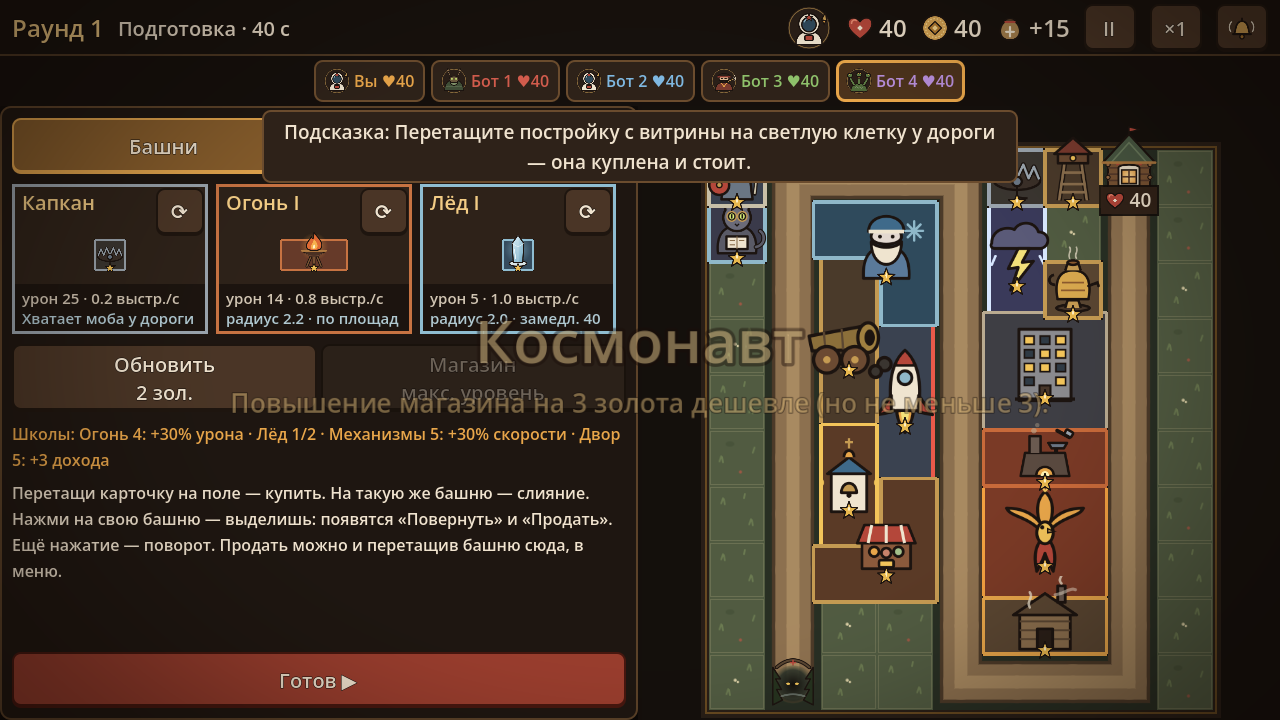
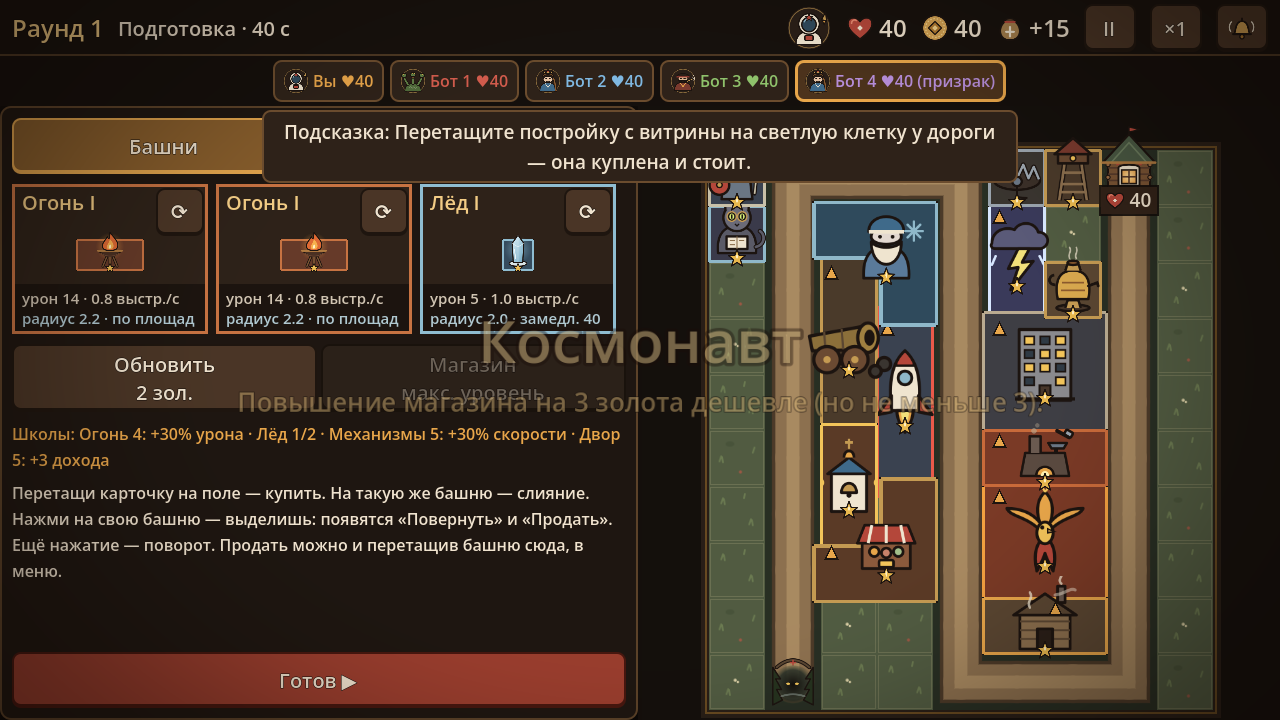
Значок усиленной постройки на поле

diff --git a/docs/presentation/index.html b/docs/presentation/index.html
@@ -342,7 +342,7 @@ figcaption { color:var(--muted); font-size:17px; margin-top:6px; }
 <circle cx="110" cy="38" r="8" fill="#6a7684" stroke="#1c1410" stroke-width="3.5"/>
 </svg>
 <h3>Разбойник</h3><p>HP 60</p><p>Быстрый; прорвался — хозяину армии +3 золота. Только от навыка Соловья.</p></div></div></section>
-<section><h2>Игра на экране</h2><figure><img src="shot_tiers.png" alt=""><figcaption>Магазин 4-го уровня: постройки тиров 3–4 рядом с новыми, строка «Школы», подсказка новичку</figcaption></figure><figure><img src="shot_buildings.png" alt=""><figcaption>Подготовка: самовар, кузница, капкан, панелька рядом с самострелами и жаровнями; тост — навык бота-соперника</figcaption></figure><figure><img src="shot_gift.png" alt=""><figcaption>«Тройка!»: выбор подарка, подарок в золотой рамке (перетащить на поле бесплатно), подсказка новичку сверху</figcaption></figure><figure><img src="shot_wave.png" alt=""><figcaption>Волна: слева бой на поле призрака (колобки, нетопыри, витязи), справа — «Палица» Ильи Муромца</figcaption></figure><figure><img src="shot_portrait_prep.png" alt=""><figcaption>Вертикальный экран: портрет героя и кнопка навыка вверху</figcaption></figure></section>
+<section><h2>Игра на экране</h2><figure><img src="shot_tiers.png" alt=""><figcaption>Магазин 4-го уровня: постройки тиров 3–4; золотой уголок «▲» — постройку усиливают соседи или школа; строка «Школы»; подсказка новичку</figcaption></figure><figure><img src="shot_buildings.png" alt=""><figcaption>Подготовка: самовар, кузница, капкан, панелька рядом с самострелами и жаровнями; тост — навык бота-соперника</figcaption></figure><figure><img src="shot_gift.png" alt=""><figcaption>«Тройка!»: выбор подарка, подарок в золотой рамке (перетащить на поле бесплатно), подсказка новичку сверху</figcaption></figure><figure><img src="shot_wave.png" alt=""><figcaption>Волна: слева бой на поле призрака (колобки, нетопыри, витязи), справа — «Палица» Ильи Муромца</figcaption></figure><figure><img src="shot_portrait_prep.png" alt=""><figcaption>Вертикальный экран: портрет героя и кнопка навыка вверху</figcaption></figure></section>
 <section><h2>Баланс: доля побед героев</h2><p class="lead">200 матчей ботов на 5 игроков, герой у бота — случайный из трёх (11 героев). Цель — каждый 10–30% (честная доля — 20%). Длина матча: медиана 15 раундов (цель 12–16).</p><div class="bar"><span>Баба-Яга</span><i style="width:93%"></i><b>31%</b></div><div class="bar"><span>Леший</span><i style="width:81%"></i><b>27%</b></div><div class="bar"><span>Домовой</span><i style="width:66%"></i><b>22%</b></div><div class="bar"><span>Скоморох</span><i style="width:63%"></i><b>21%</b></div><div class="bar"><span>Соловей-Разбойник</span><i style="width:57%"></i><b>19%</b></div><div class="bar"><span>Илья Муромец</span><i style="width:54%"></i><b>18%</b></div><div class="bar"><span>Кощей Бессмертный</span><i style="width:54%"></i><b>18%</b></div><div class="bar"><span>Бабушка у подъезда</span><i style="width:54%"></i><b>18%</b></div><div class="bar"><span>Космонавт</span><i style="width:51%"></i><b>17%</b></div><div class="bar"><span>Змей Горыныч</span><i style="width:48%"></i><b>16%</b></div><div class="bar"><span>Василиса Премудрая</span><i style="width:45%"></i><b>15%</b></div></section>
 <section><h2>Что проверить руками</h2><ul><li>Выбор героя: понятны ли карточки, хватает ли 30 секунд</li><li>Кнопка навыка вверху: видно ли цену и когда её можно нажать (подсказка при наведении)</li><li>Соседство: выделите кузницу или самовар — золотые линии к соседям; бонусы написаны в меню</li><li>Новые мобы: виден ли нетопырь (летает выше), невидимка (полупрозрачная), щит у витязя</li><li>Темп: ранние раунды теперь жёстче (≈5 HP за раунд у ботов) — так ли ощущается вживую</li><li>Тройка: слейте 4 одинаковые постройки — появится выбор подарка; перетащите подарок на поле</li><li>Школы: строка «Школы» в меню — понятно ли, сколько осталось до бонуса</li></ul></section>
 <section><h2>Что предлагаю дальше</h2><ul><li>Ранние раунды мягче (сейчас ≈5 HP за раунд у ботов в 1–3 раундах)</li><li>Боты умнее: продавать, переставлять, жать навыки по ситуации — баланс героев станет точнее</li><li>Живые матчи автора → правка героев по логам (сводка по героям уже есть в analyze_logs.py)</li><li>Звуки и анимации навыков героев</li></ul></section>
